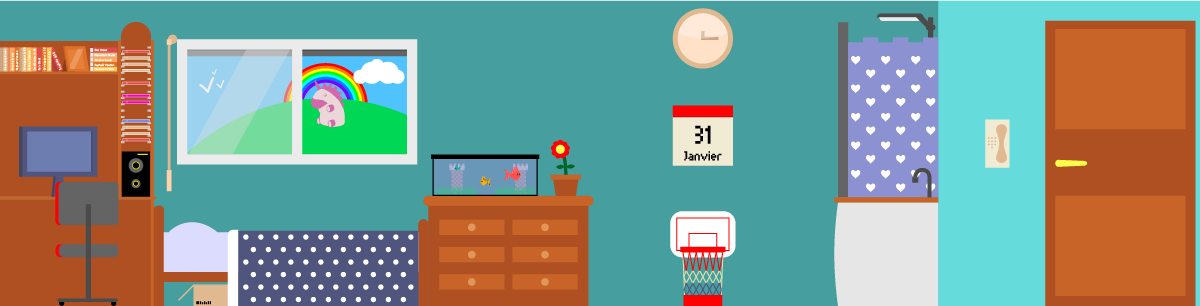
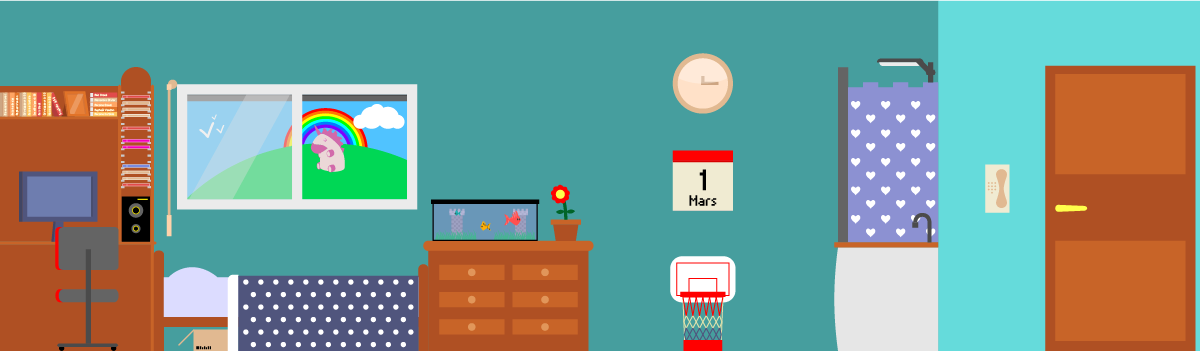
move everything 45px lower, fix positions, add yeux asset

diff --git a/js/core.js b/js/core.js
@@ -110,7 +110,7 @@ function launchGame()
 
     var spSheetYeux = new createjs.SpriteSheet({
         images: [imgYeux],
-        frames: {height: 100, width: 100},
+        frames: {height: 46, width: 75},
         animations: {closed: 0, open: 1}
     });
     var spSheetFlower = new createjs.SpriteSheet({
@@ -164,11 +164,11 @@ function launchGame()
         }
     });
 
-    createClickable(550,  149, spSheetFlower, spSheetYeux, imgDecFlower, "flower"  );
-    createClickable(60,   45,  spSheetFrame,  spSheetYeux, imgDecFrame,  "photo"   );
-    createClickable(170,  35,  spSheetWindow, spSheetYeux, imgDecWindow, "window"  );
-    createClickable(430,  163, spSheetAqua,   spSheetYeux, imgDecAqua ,  "aquarium");
-    createClickable(1000, 120, spSheetPhone,  spSheetYeux, imgDecPhone,  "phone"   );
+    createClickable(547, 184, spSheetFlower, spSheetYeux, imgDecFlower, "flower"  );
+    createClickable(61,  90,  spSheetFrame,  spSheetYeux, imgDecFrame,  "photo"   );
+    createClickable(166, 79,  spSheetWindow, spSheetYeux, imgDecWindow, "window"  );
+    createClickable(431, 198, spSheetAqua,   spSheetYeux, imgDecAqua ,  "aquarium");
+    createClickable(985, 163, spSheetPhone,  spSheetYeux, imgDecPhone,  "phone"   );
 
     player = new Player(imgPlayer, [900, 60, 1250]);
     player.start = true;
@@ -186,9 +186,10 @@ function launchGame()
 function createClickable(x, y, spSheetObj, spSheetYeux, imgMask, name)
 {
     var spriteYeux = new createjs.Sprite(spSheetYeux, "closed"); //clone
-    spriteYeux.regX = 50;
-    spriteYeux.regY = 100;
+    spriteYeux.regX = 75 / 2;
+    spriteYeux.regY = 46;
     var spriteMask = new createjs.Bitmap(imgMask);
+    spriteMask.y = 45;
     var sprite = new createjs.Sprite(spSheetObj, "still");
     sprite.x = x;
     sprite.y = y;

diff --git a/js/player.js b/js/player.js
@@ -9,7 +9,7 @@ function Player(img, path) {
     var overridenDest = undefined;
 
     var debug = new createjs.Bitmap(imgDebug);
-    debug.scaleY = 306;
+    debug.scaleY = 350;
     debug.visible = false;
     stage.addChild(debug);
 
@@ -25,7 +25,7 @@ function Player(img, path) {
     });
 
     this.sprite = new createjs.Sprite(spSheet, "walk");
-    this.sprite.y = 51;
+    this.sprite.y = 96;
     this.sprite.x = 400;
 
     // insert before fading screen

diff --git a/index.html b/index.html
@@ -19,7 +19,7 @@
  <body onload="startGame();">
   <center>
    <br>
-   <canvas id="gameCanvas" width="1200" height="306"></canvas>
+   <canvas id="gameCanvas" width="1200" height="351"></canvas>
   </center>
  </body>
 </html>
